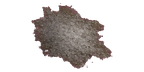
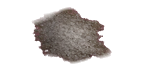
지면 데칼 외곽을 불규칙 알파로 마감

diff --git a/scripts/process-gpt-art.py b/scripts/process-gpt-art.py
@@ -249,6 +249,26 @@ def neutralize_purple_spill(im: Image.Image) -> Image.Image:
     return Image.fromarray(np.clip(arr, 0, 255).astype(np.uint8), "RGBA")
 
 
+def roughen_decal_edge(im: Image.Image, seed: int) -> Image.Image:
+    """Break the generated oval silhouette with a deterministic ragged fade."""
+    arr = np.asarray(im.convert("RGBA")).astype(np.float32)
+    height, width = arr.shape[:2]
+    yy, xx = np.mgrid[0:height, 0:width]
+    nx = (xx - (width - 1) / 2) / max(1.0, width * 0.48)
+    ny = (yy - (height - 1) / 2) / max(1.0, height * 0.48)
+    radius = np.sqrt(nx * nx + ny * ny)
+    noise = (
+        np.sin(xx * 0.17 + seed * 1.7)
+        + np.sin(yy * 0.29 + seed * 0.9)
+        + np.sin((xx + yy) * 0.11 + seed * 2.3)
+    ) / 3.0
+    boundary = 0.78 + noise * 0.13
+    ragged = np.clip((boundary - radius) / 0.16, 0.0, 1.0)
+    arr[..., 3] *= ragged
+    arr[..., 3] = np.where(arr[..., 3] < 10, 0, arr[..., 3])
+    return Image.fromarray(np.clip(arr, 0, 255).astype(np.uint8), "RGBA")
+
+
 def trim(im: Image.Image, pad: int = 3) -> Image.Image:
     alpha = np.asarray(im.getchannel("A"))
     ys, xs = np.where(alpha > 12)
@@ -421,8 +441,9 @@ def process_world_details(source: Path) -> None:
     decal_cells = split_grid(
         chroma(Image.open(source / "gpt_ground_decals.png")), 4, 4
     )
-    for cell, (asset_id, width, height) in zip(decal_cells, DECALS):
-        fit_center(cell, width, height, pad=2).save(
+    for index, (cell, (asset_id, width, height)) in enumerate(zip(decal_cells, DECALS)):
+        fitted = fit_center(cell, width, height, pad=2)
+        roughen_decal_edge(fitted, index + 1).save(
             OUT_PROP / f"{asset_id}.png", optimize=True
         )
 
